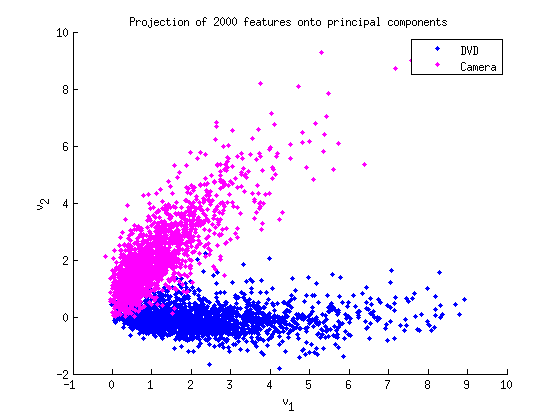
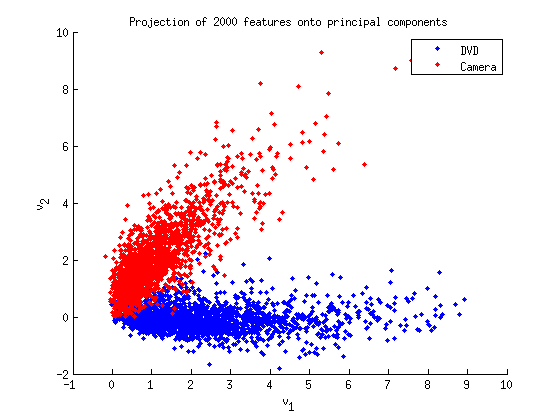
Text categorization plots final

diff --git a/Projekt1/Kod/categorization_task.m b/Projekt1/Kod/categorization_task.m
@@ -13,9 +13,7 @@ algorithms = { ...
     @(training_data, training_labels, test_data, nWords) ...
         run_average_perceptron(training_data, training_labels, test_data, N_AVG_PERCEPTRON_ITERATIONS, nWords), ...
     @(training_data, training_labels, test_data, nWords) ...
-        run_naivebayes(training_data, training_labels, test_data, nWords, true), ...
-    @(training_data, training_labels, test_data, nWords) ...
-        run_knn(training_data, training_labels, test_data, nWords, KNN_K) ...
+        run_naivebayes(training_data, training_labels, test_data, nWords, true) ...
 };
 nrAlgorithms = size(algorithms,2);
 
@@ -63,16 +61,24 @@ for algoId = 1:nrAlgorithms
 end
 t = toc;
 
-%% Plotting (can be run independently of above code if one sets nrAlgorithms).
+%% Plotting
+clear;
+load('../Plottar/backup_textclassification.mat')
+nrAlgorithms = 2;
+nLabels = 6;
 figure
 classification_matrix_sum = zeros(6,6);
-for algoId = 1:size(classification_matrix,3)
+for algoId = 1:nrAlgorithms
     classification_matrix_sum = ...
-        classification_matrix_sum + classification_matrix(:,:,algoId);
+        classification_matrix_sum + 1/nrAlgorithms * classification_matrix(:,:,algoId);
 end
-bar(classification_matrix_sum ,'DisplayName','classification_matrix_sum')
+% Normalize
+classification_matrix_sum = classification_matrix_sum ./ repmat(sum(classification_matrix_sum), nLabels, 1)
+% Plot
+bar(classification_matrix_sum,'DisplayName','classification_matrix_sum')
 legend('Camera', 'Books', 'DVD', 'Health', 'Music', 'Software');
-
-% xvals = repmat([100, 250, 500, 750, 1000, 1250 ,1500, 1750, 2000, 2250, 2500]', [1, nrAlgorithms]);
-% errorbar(xvals, error_per_feature_matrix, stddev_per_feature_matrix)
-% 
+axis([0 7 0 0.1])
+set(gca,'XTickLabel',{'Camera', 'Books', 'DVD', 'Health', 'Music', 'Software'})
+ylabel('Classified as... (%)')
+xlabel('Test document of class')
+title('Text classification results')

diff --git a/Projekt1/Kod/pca_test.m b/Projekt1/Kod/pca_test.m
@@ -65,7 +65,7 @@ hold off
 figure
 hold on
     plot(xData(labels_classes == 3), yData(labels_classes == 3),'.b')
-    plot(xData(labels_classes == 1), yData(labels_classes == 1),'.m')
+    plot(xData(labels_classes == 1), yData(labels_classes == 1),'.r')
     
     axis([-1 10 -2 10])
     title('Projection of 2000 features onto principal components')
